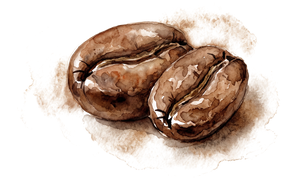
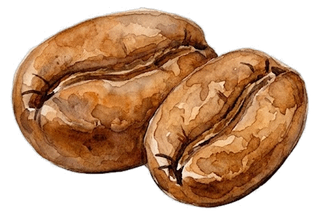
提供された新しいコーヒー豆画像でfavicon/ヘッダーアイコンを差し替え
背景が白のクリーンな画像を透過処理。豆がフレームいっぱいに写っていた
ため、favicon/ナビアイコンとも約1.08倍の余白のみを追加してほぼ全体を
使い、小さいサイズでもはっきり豆と分かるようにした。

diff --git a/docs/index.html b/docs/index.html
@@ -94,7 +94,7 @@
   <header class="site-header">
     <div class="wrap">
       <a class="nav-brand" href="index.html">
-        <img class="nav-brand-icon" src="assets/coffee-bean-icon.png" alt="" width="300" height="190">
+        <img class="nav-brand-icon" src="assets/coffee-bean-icon.png" alt="" width="320" height="215">
         おのじゅんの校務DXカフェ
       </a>
       <nav class="site-nav">

diff --git a/docs/tools.html b/docs/tools.html
@@ -94,7 +94,7 @@
   <header class="site-header">
     <div class="wrap">
       <a class="nav-brand" href="index.html">
-        <img class="nav-brand-icon" src="assets/coffee-bean-icon.png" alt="" width="300" height="190">
+        <img class="nav-brand-icon" src="assets/coffee-bean-icon.png" alt="" width="320" height="215">
         おのじゅんの校務DXカフェ
       </a>
       <nav class="site-nav">
